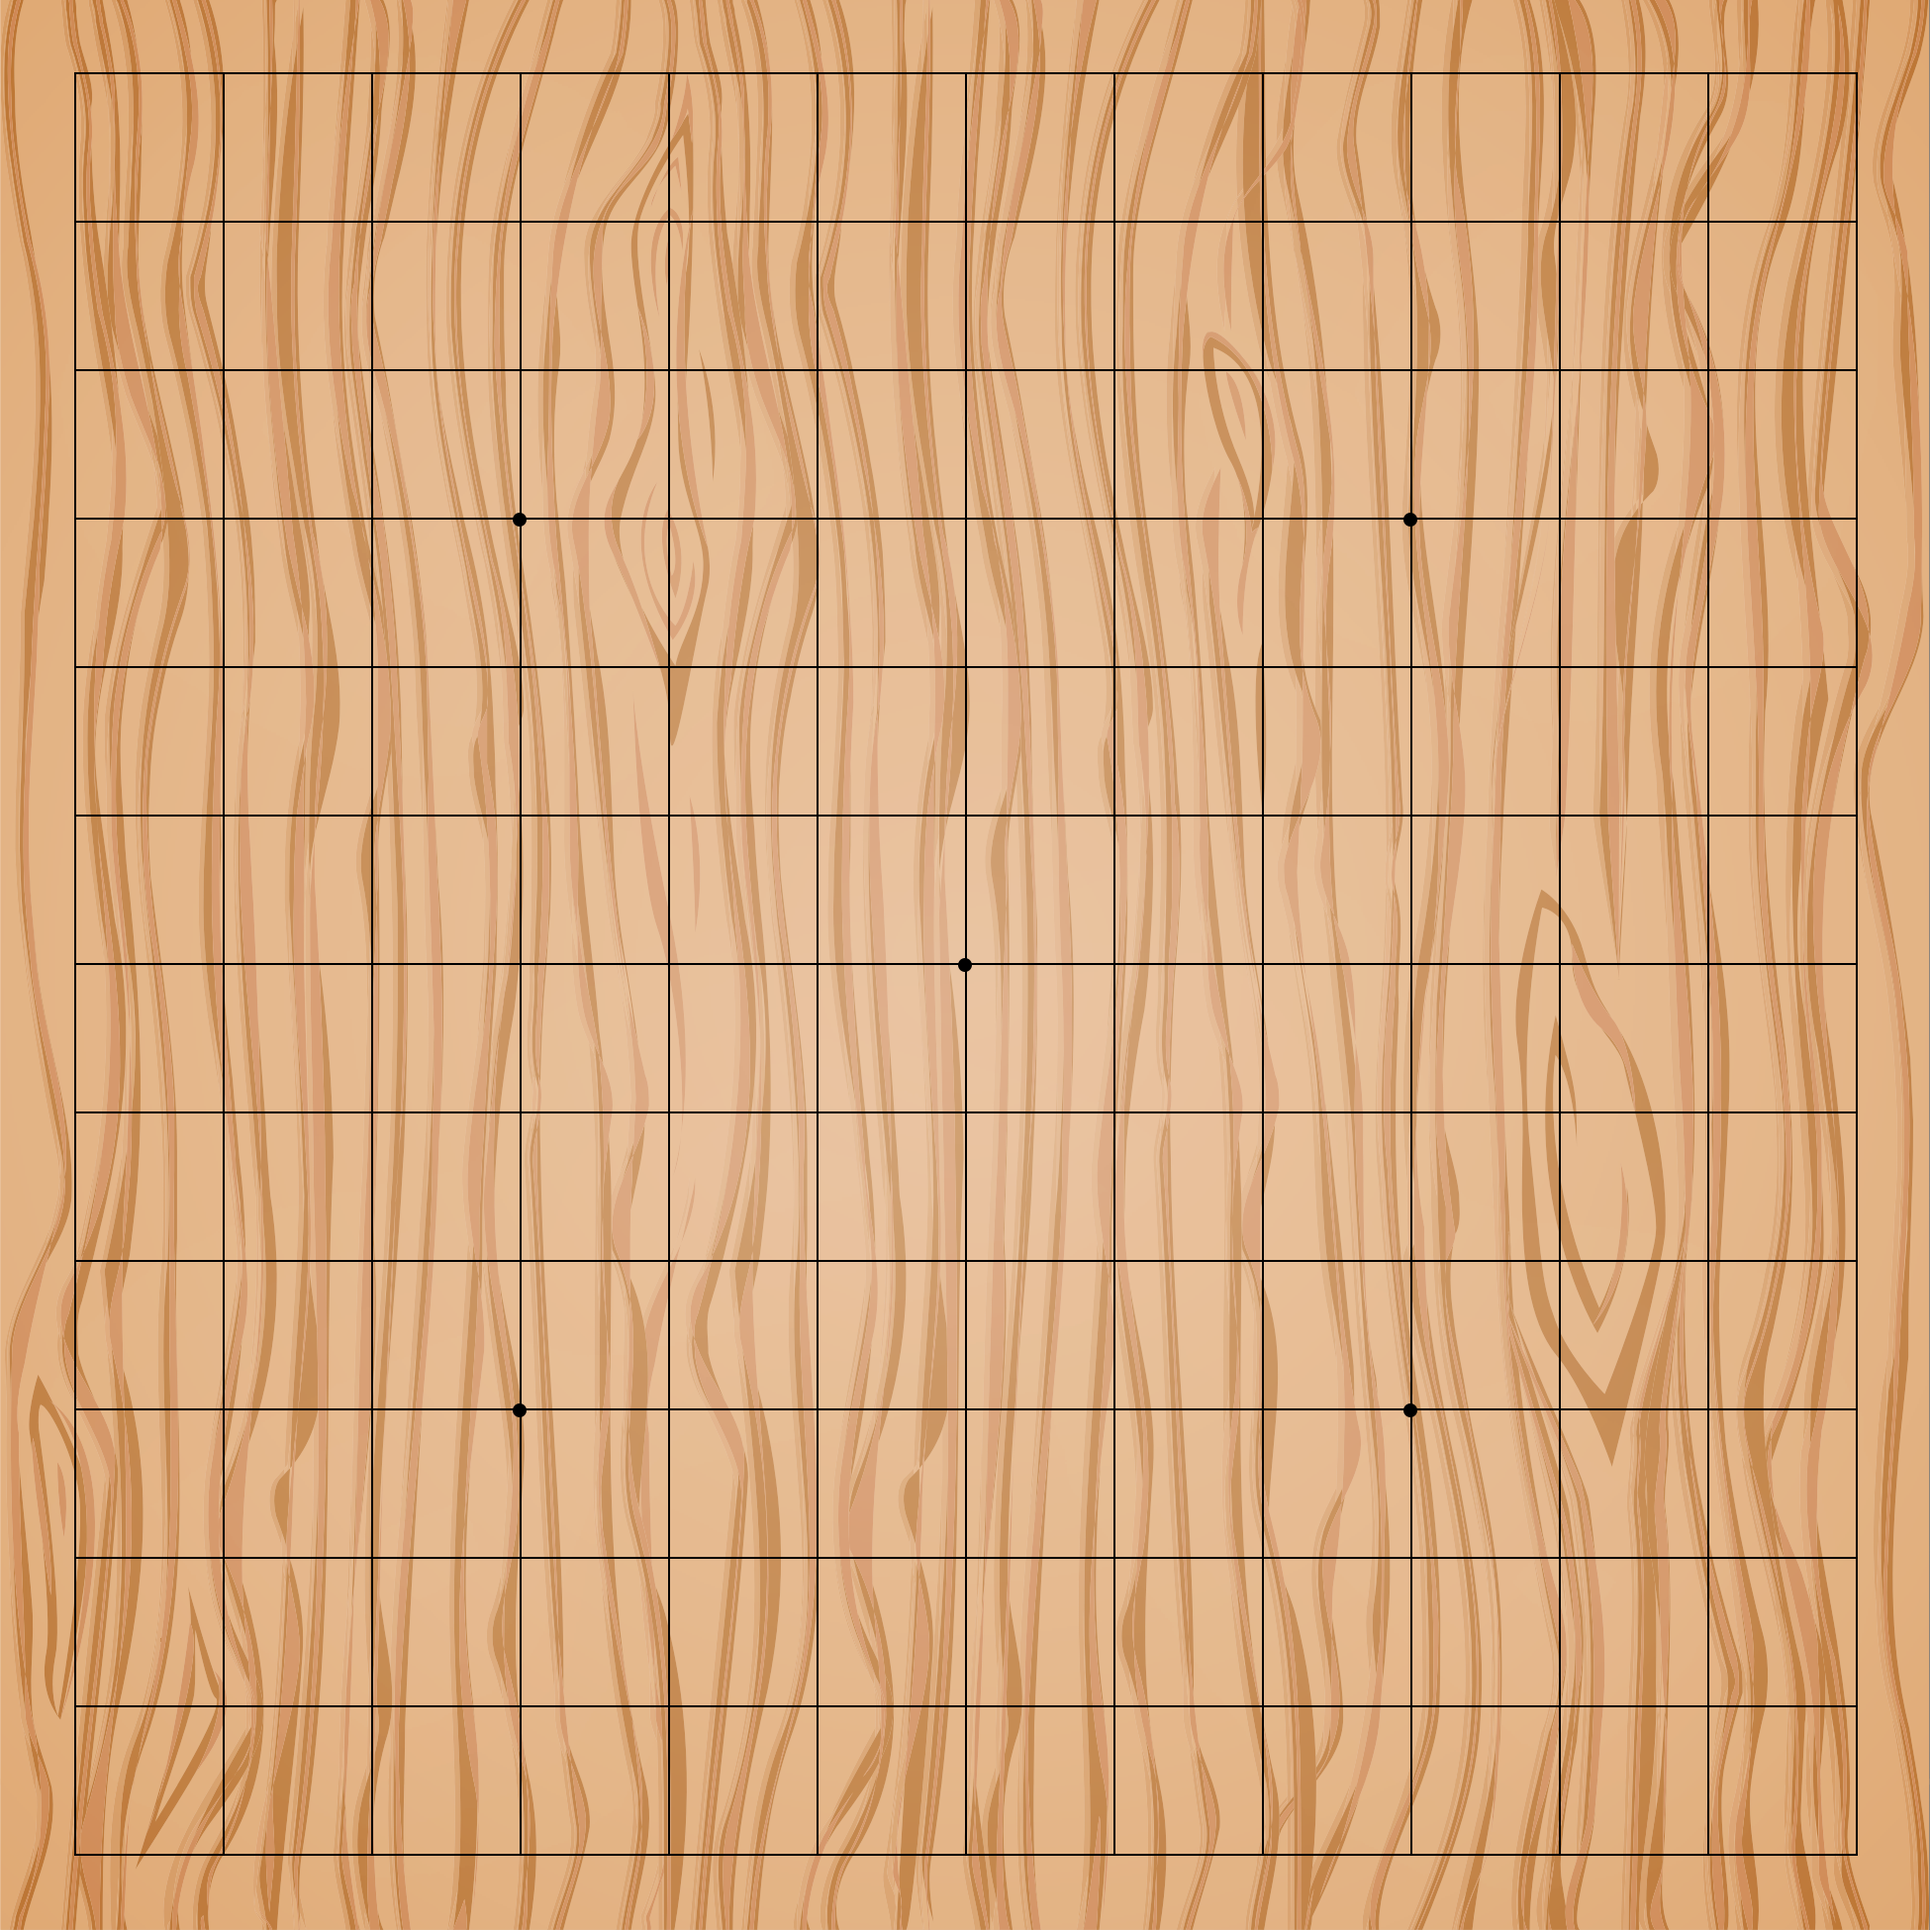
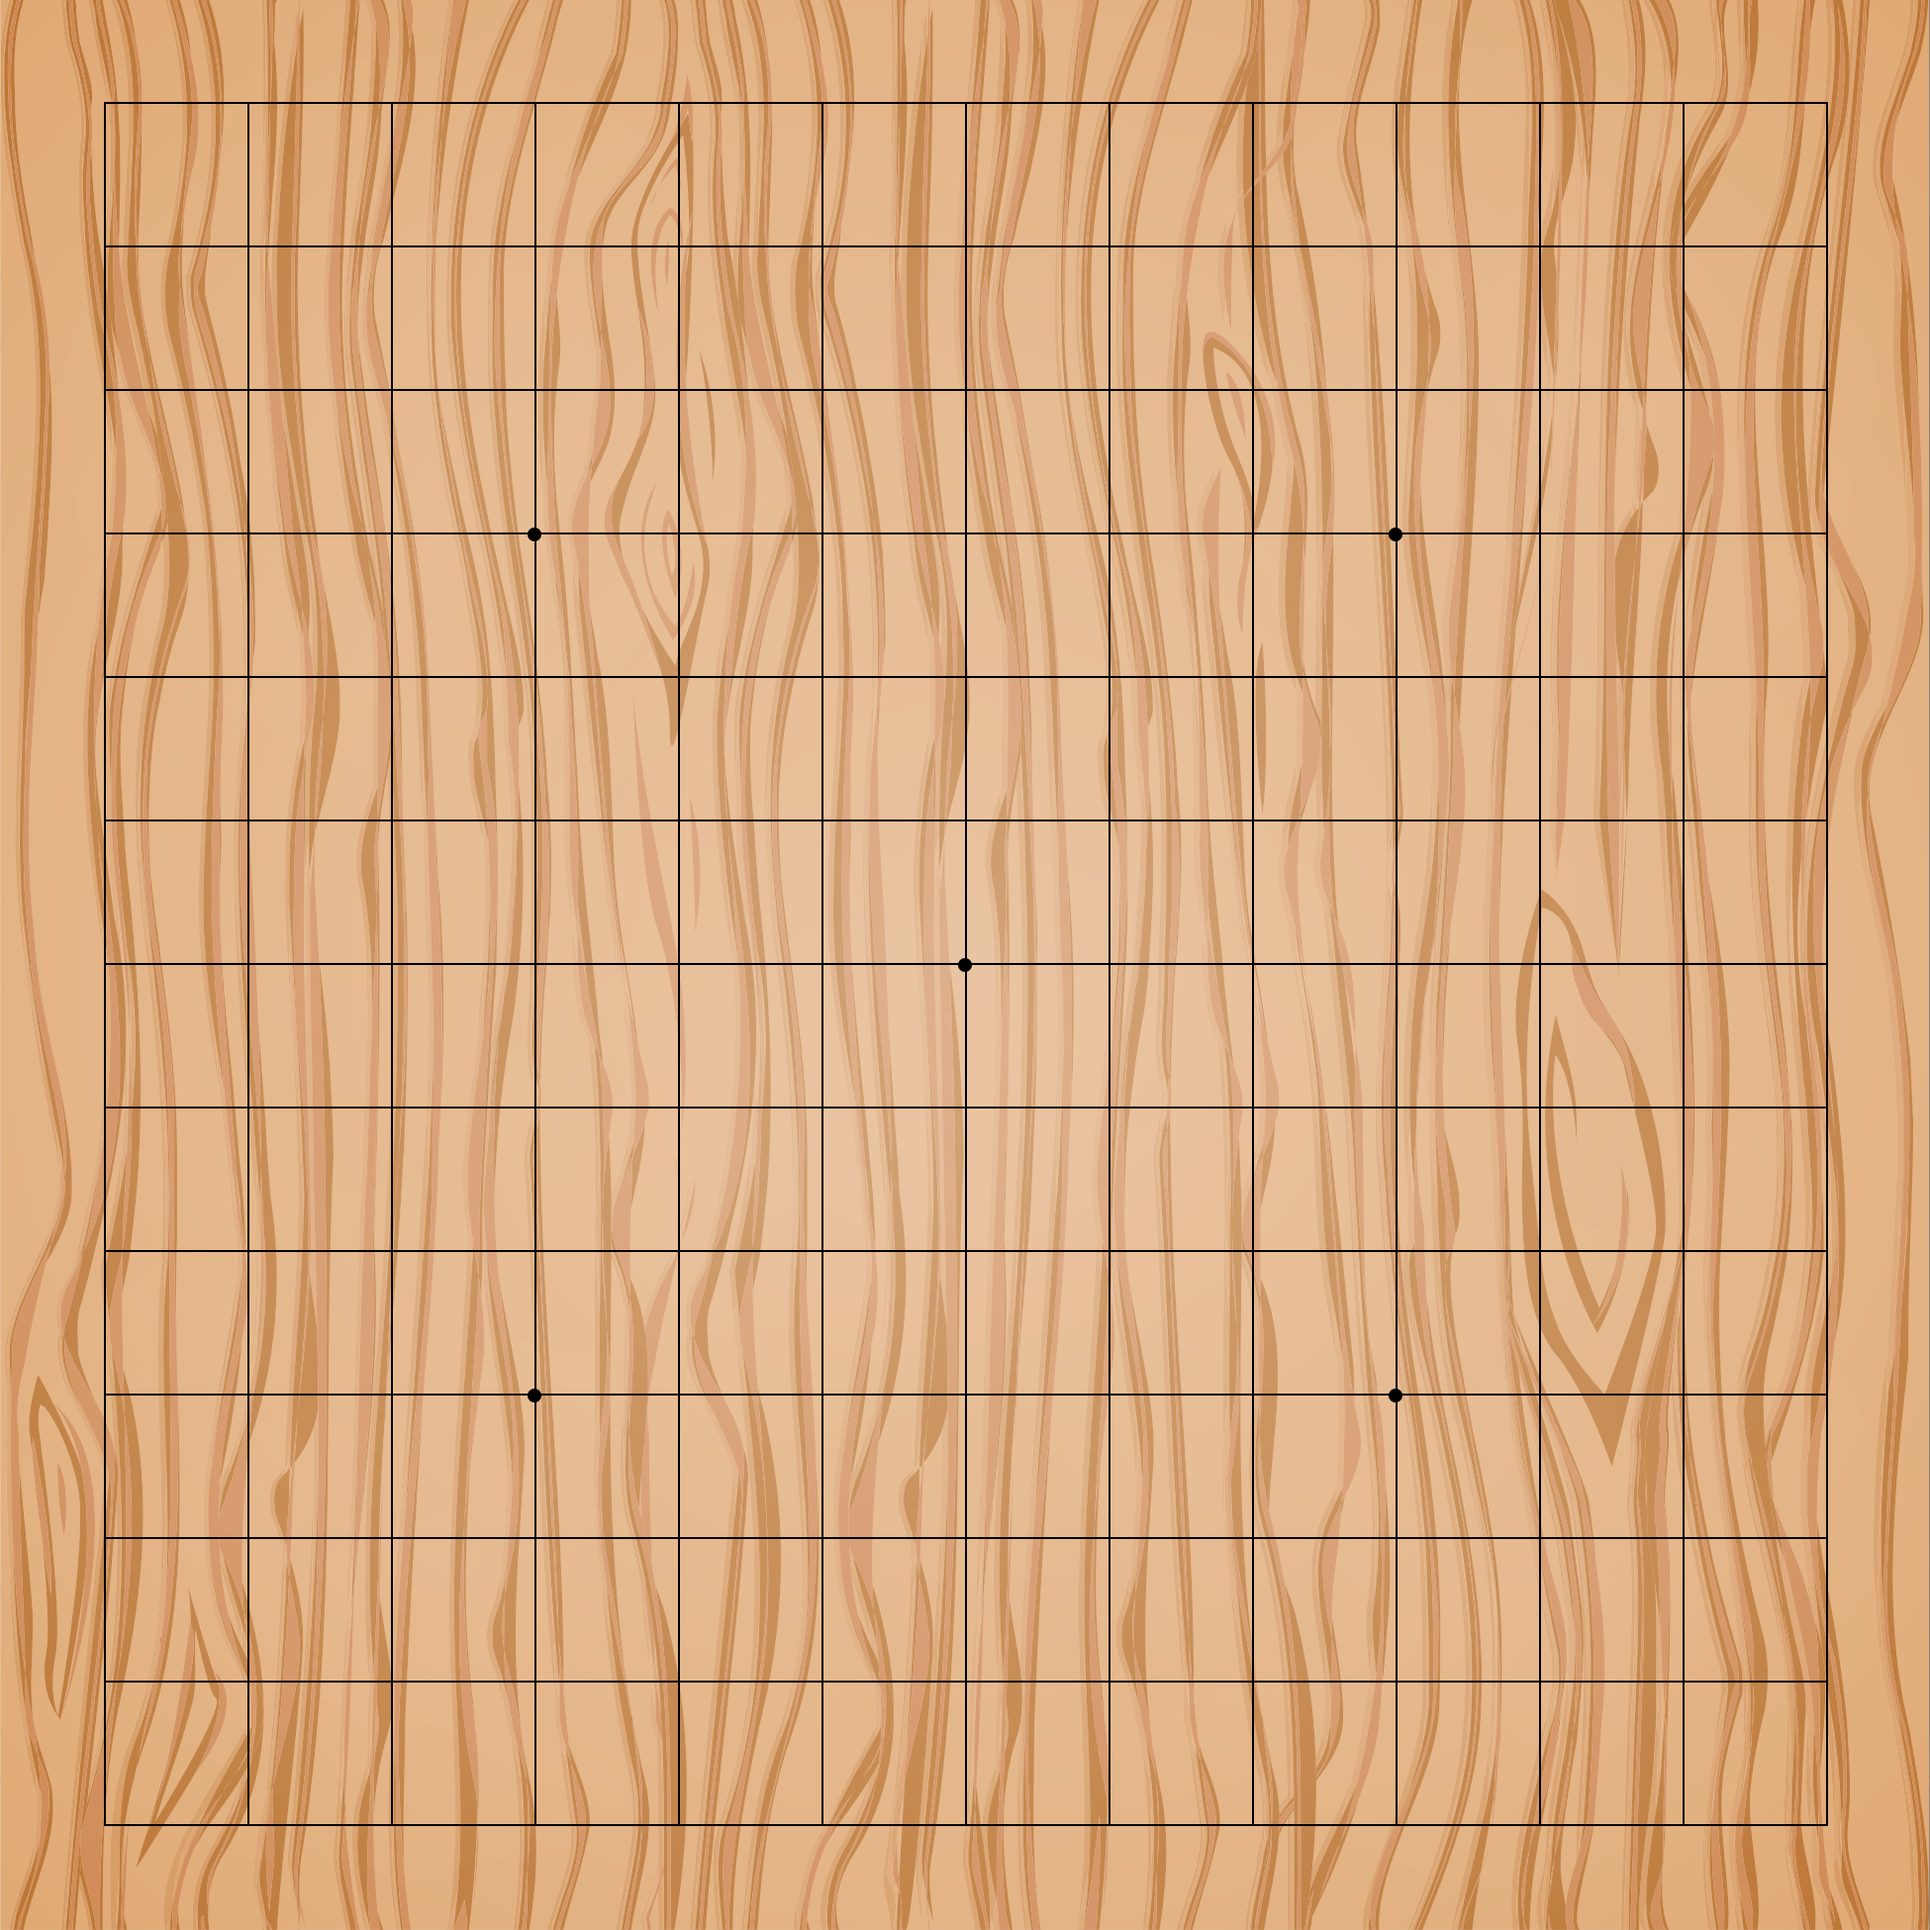
Increase small board borders + fix grid styling

diff --git a/src/components/Board.js b/src/components/Board.js
@@ -16,22 +16,28 @@ function Board({ myTurn, playing, endGame }) {
   );
 
   let board = null;
+  let borderDim = null;
+  // board measurements in pixels
+  // 9x9: 135, 210*8, 135 -> (135-210/2)/210
+  // 13x13: 105, 145*12, 105 -> (105-145/2)/145
+  // 19x19: 75, 100*18, 75 -> (75-100/2)/100
   switch (size) {
     case 9:
       board = board_9x9;
+      borderDim = (135 - 210 / 2) / 210;
       break;
     case 13:
       board = board_13x13;
+      borderDim = (105 - 145 / 2) / 145;
       break;
     case 19:
       board = board_19x19;
+      borderDim = (75 - 100 / 2) / 100;
       break;
     default:
       throw new RangeError(`Unsupported board size ${size}`);
   }
-  // TODO: adjust this accordingly for 9x9 and 13x13 boards with appropriately
-  // sized borders
-  const gridTemplateStyling = `0.25fr repeat(${size}, ${19 / size}fr) 0.25fr`;
+  const gridTemplateStyling = `${borderDim}fr repeat(${size}, 1fr) ${borderDim}fr`;
 
   return (
     <Paper
